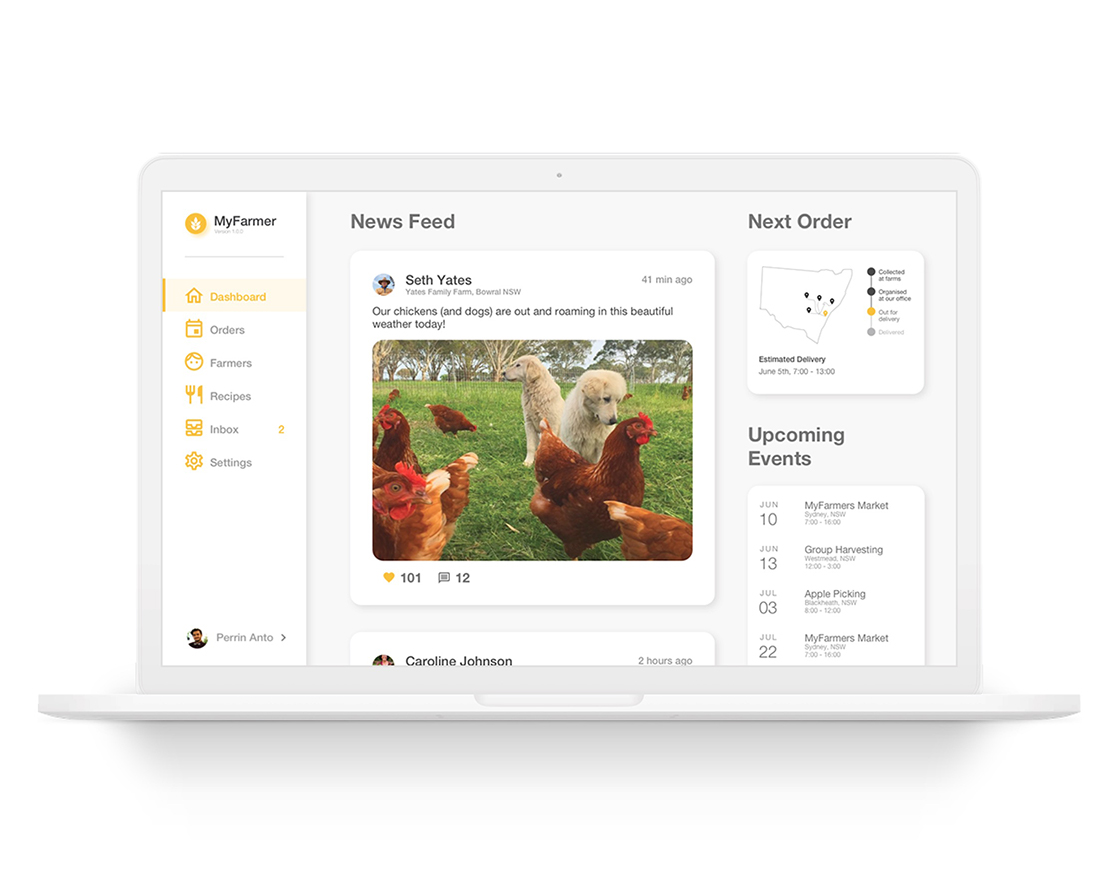
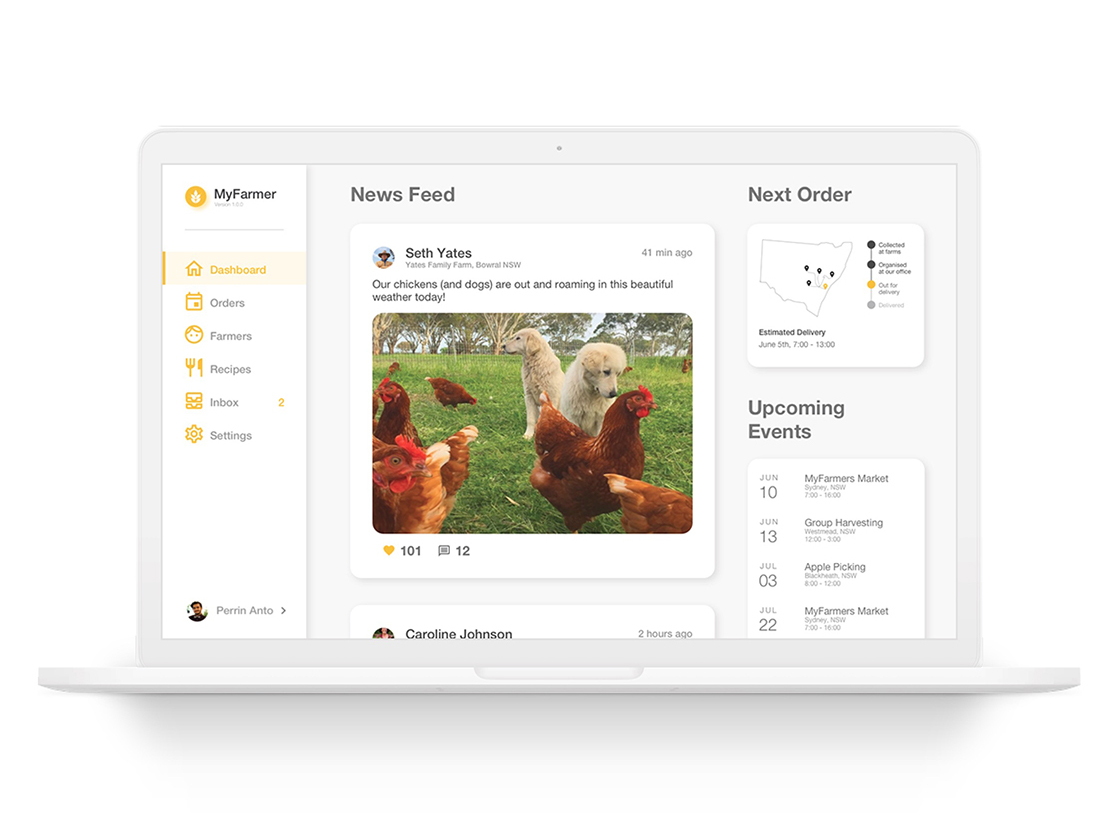
Resized photos, improving some animations

diff --git a/index.html b/index.html
@@ -1,5 +1,5 @@
 <!DOCTYPE html>
-<html lang="en" class="animated fadeIn">
+<html lang="en">
 <head>
 
   <!-- Basic Page Needs
@@ -36,62 +36,82 @@
   <link rel="icon" type="image/png" href="images/favicon.png">
 
 </head>
-<body class="black-blackground">
+<body class="black-background">
+
+  <!-- Navigation
+  –––––––––––––––––––––––––––––––––––––––––––––––––– -->
+  <div class="container">
+    <header class="row" style="margin-top: 10%">
+      <a href="" class="page-link" id="bowtie">⋈</a>
+      <nav class="main-navigation">
+        <ul>
+          <li><a href="" class="page-link active">Design</a></li>
+          <li><a href="" class="page-link">Code</a></li>
+          <li><a href="" class="page-link">Sound</a></li>
+          <li><a href="" class="page-link">Bio</a></li>
+        </ul>
+      </nav>
+    </header>
+
+  <!-- Header
+  –––––––––––––––––––––––––––––––––––––––––––––––––– -->
+    <div class="core-content">
+      <div class="row" style="margin-top: 10%">
+          <h4>Perrin Anto.</h4>
+          <h4>Interaction Designer.</h4>
+      </div>
 
   <!-- Primary Page Layout
   –––––––––––––––––––––––––––––––––––––––––––––––––– -->
-  <div class="container">
-    <div class="row" style="margin-top: 10%">
-        <h4>⋈</h4>
-    </div>
 
-    <div class="row" style="margin-top: 10%">
-        <h4>Perrin Anto.</h4>
-        <h4>Interaction Designer.</h4>
-    </div>
+      <div class="row" style="margin-top: 10%">
+          <h1><strong>Forging products and experiences that positively impact people.</strong></h1>
+      </div>
 
-    <div class="row" style="margin-top: 10%">
-        <h1><strong>Forging products and experiences that positively impact people.</strong></h1>
-    </div>
+      <div class="row" style="margin-top: 20%">
+          <div class="one-half column">
+            <img src="images/UberElevate.jpg" class="card-photo" alt="UberElevate aircraft mockup">
+            <h4 class="card-title">Multi-Modal Research</h4>
+            <p><em>Understanding door-to-door user experiences to inform the future</em></p>
+            <h6><a href="aira.html" class="page-link">SEE MORE</a></h6>
+          </div>
 
-    <div class="row" style="margin-top: 20%">
-        <div class="one-half column">
-          <img src="images/UberElevate.jpg" alt="UberElevate aircraft mockup">
-          <h4 class="card-title">Multi-Modal User Research</h4>
-          <p><em>Understanding door-to-door experiences to inform the future</em></p>
-          <h6><a href="aira.html" class="page-link white-font">SEE MORE</a></h6>
-        </div>
+          <div class="one-half column">
+            <img src="images/OzCHI_App_UI.jpg" class="card-photo" alt="Phone interface previews">
+            <h4 class="card-title">DigiView</h4>
+            <p><em>Reimagining exploration at libraries for the digital age</em></p>
+            <h6><a href="" class="page-link">SEE MORE</a></h6>
+          </div>
+      </div>
 
-        <div class="one-half column">
-          <img src="images/OzCHI_App_UI.jpg" alt="Phone interface previews">
-          <h4 class="card-title">DigiView</h4>
-          <p><em>Reimagining exploration at libraries for the digital age</em></p>
-          <h6><a href="" class="page-link white-font">SEE MORE</a></h6>
-        </div>
-    </div>
+      <div class="row" style="margin-top: 5%">
+          <div class="one-half column">
+            <img src="images/MyFarmer.jpeg" class="card-photo" alt="A dashboard with posts from farmers">
+            <h4 class="card-title">MyFarmer</h4>
+            <p><em>Innovatively connecting people back to their food source</em></p>
+            <h6><a href="" class="page-link">SEE MORE</a></h6>
+          </div>
 
-    <div class="row" style="margin-top: 5%">
-        <div class="one-half column">
-          <img src="images/MyFarmer.jpeg" alt="A dashboard with posts from farmers">
-          <h4 class="card-title">MyFarmer</h4>
-          <p><em>Innovatively connecting people back to their food source</em></p>
-          <h6><a href="" class="page-link white-font">SEE MORE</a></h6>
-        </div>
+          <div class="one-half column">
+            <img src="images/Greenpeace.png" class="card-photo" alt="A branded folder and lanyard">
+            <h4 class="card-title">Greenpeace Australia</h4>
+            <p><em>Creating a new onboarding experience for volunteers</em></p>
+            <h6><a href="" class="page-link">SEE MORE</a></h6>
+          </div>
+      </div>
 
-        <div class="one-half column">
-          <img src="images/Greenpeace.png" alt="A branded folder and lanyard">
-          <h4 class="card-title">Greenpeace Australia</h4>
-          <p><em>Creating a new onboarding experience for volunteers</em></p>
-          <h6><a href="" class="page-link white-font">SEE MORE</a></h6>
-        </div>
-    </div>
+      <div class="row" style="margin-top: 30%">
+          <p> </p>
+      </div>
 
-    <div class="row" style="margin-top: 30%">
-
+      <div class="row" style="margin-bottom: 10%">
+        <p>Linkedin. Dribbble. Twitter. Instagram.</p>
+      </div>
     </div>
   </div>
 
 <!-- End Document
+
   –––––––––––––––––––––––––––––––––––––––––––––––––– -->
 </body>
 </html>

diff --git a/css/style.css b/css/style.css
@@ -1,3 +1,5 @@
+/* ———————————— Text Styles ———————————— */
+
 h1, h2, h3, h4, h5, h6, p {
     color: black;
 }
@@ -18,26 +20,51 @@ h4 {
     margin-bottom: -.5%;
 }
 
-img {
-    max-width: 100%;
-    max-height: 100%;
+a {
+    font-family: 'Maison Neue Mono';
+    font-weight: bold;
 }
 
-.black-background { 
-    background-color: black;
+/* ———————————— Navigation ———————————— */
+
+nav li {
+    display: inline-block;
+    margin-bottom: 0rem;
 }
 
-.black-background *{ 
-    color: white;
+nav ul {
+    margin-bottom: 0rem;
 }
 
-.card-title {
-    margin-top: 5%;
+#bowtie{
+    border-bottom: 4px;
+    padding-bottom: 4px;
+    font-size: 3rem;
+    float: left;
+}
+
+.main-navigation{
+    margin-top: 1rem;
+    float:right;
+}
+
+.main-navigation .page-link{
+    margin-left: 3rem;
 }
 
 .page-link {
     font-weight: bold;
     text-decoration: none;
+    border-bottom: 4px solid #000000;
+    padding-bottom: 4px;
+}
+
+.active {
+    font-weight: bold;
+    text-decoration: none;
+    color: rgb(0, 68, 255);
+    border-bottom: 4px solid #FFFFFF;
+    padding-bottom: 4px;
 }
 
 .page-link:hover {
@@ -52,4 +79,27 @@ img {
     transition: border-bottom .20s ease-in;
     -moz-transition: border-bottom .20s ease-in;
     -webkit-transition: border-bottom .20s ease-in;
+}
+
+.black-background { 
+    background-color: black;
+}
+
+.black-background *{ 
+    color: white;
+}
+
+/* ———————————— Cards ———————————— */
+
+.card-title {
+    margin-top: 5%;
+}
+
+.card-image {
+    width: 100%;
+}
+
+img {
+    max-width: 100%;
+    max-height: 100%;
 }

diff --git a/aira.html b/aira.html
@@ -1,5 +1,5 @@
 <!DOCTYPE html>
-<html lang="en" class="animated fadeIn">
+<html lang="en">
 <head>
 
   <!-- Basic Page Needs
@@ -36,7 +36,7 @@
   <link rel="icon" type="image/png" href="images/favicon.png">
 
 </head>
-<body>
+<body class="animated fadeInUp">
 
   <!-- Primary Page Layout
   –––––––––––––––––––––––––––––––––––––––––––––––––– -->

diff --git a/js/script.js b/js/script.js
@@ -1,6 +1,10 @@
 
 $(document).ready(function() {
     var body = $('body');
+    var core_content = $('.core-content');
+
+    var fadein_tween = TweenLite.from(core_content, 1, {autoAlpha:0, y: 100});
+ 
 
     $(function(){
         if(body.hasClass('.black-background')){
